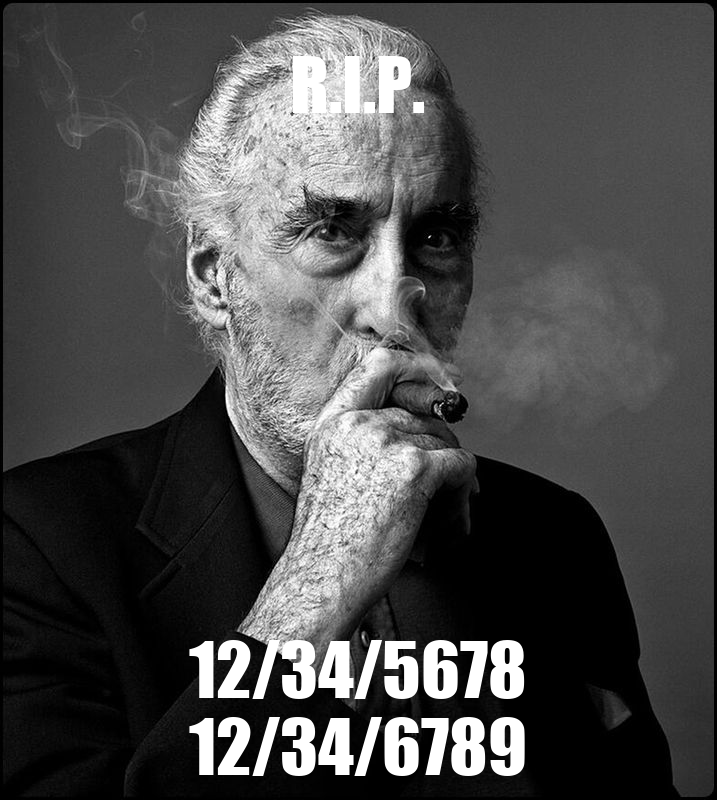
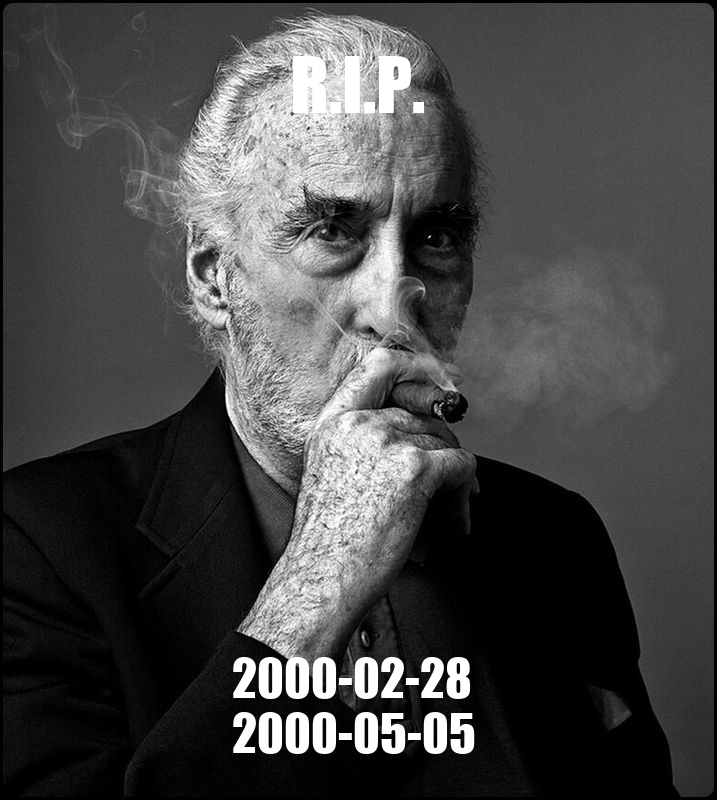
make_meme is now a function

Changed region(s): [[0.2455, 0.7812, 0.7364, 0.9688]]

diff --git a/meme_maker/make_meme.py b/meme_maker/make_meme.py
@@ -1,50 +1,48 @@
 import MemePy as mp
 from PIL import Image
 
-dob = '12/34/5678'
-dod = '12/34/6789'
+TOP_BOX_SIZE = 200
+BOTTOM_BOX_SIZE = 1000
+TEXT_COLOR = [255, 255, 255]
 
-im = Image.open('./resources/ImageLibrary/dead_person.jpg')
-width, height = im.size
-#print(width, height)
+def make_meme(birth_date, death_date, image_path):
+    im = Image.open(image_path)
+    width, height = im.size
+    #print(width, height)
 
-with open('./resources/meme-def-template.json', 'r') as f:
-    lines_with_placeholders = f.readlines()
+    with open('./resources/meme-def-template.json', 'r') as f:
+        lines_with_placeholders = f.readlines()
 
-nb_pos_encounters = 0
-nb_dim_encounters = 0
-top_box_size = 200
-bottom_box_size = 900
-text_color = [255, 255, 255]
+    nb_pos_encounters = 0
+    nb_dim_encounters = 0
 
-lines_to_export = []
-for line in lines_with_placeholders:
-    if "\"pos\"" in line:
-        if nb_pos_encounters < 1:
-            line = line.replace("TOP_X", str((width - top_box_size) // 2), 1)
-            line = line.replace("TOP_Y", str(height // 20), 1)
-        else:
-            line = line.replace("BOTTOM_X", str((width - bottom_box_size) // 2), 1)
-            line = line.replace("BOTTOM_Y", str(7.5 * height // 10), 1)
-        nb_pos_encounters += 1
-    elif "\"dimensions\"" in line:
-        if nb_dim_encounters < 1:
-            line = line.replace("TOP_BOX_SIZE", str(top_box_size))
-        else:
-            line = line.replace("BOTTOM_BOX_SIZE", str(bottom_box_size))
-        nb_dim_encounters += 1
-    elif "\"text_color\"" in line:
-        line = line.replace("TEXT_COLOR", str(text_color))
-    lines_to_export.append(line)
+    lines_to_export = []
+    for line in lines_with_placeholders:
+        if "\"pos\"" in line:
+            if nb_pos_encounters < 1:
+                line = line.replace("TOP_X", str((width - TOP_BOX_SIZE) // 2), 1)
+                line = line.replace("TOP_Y", str(height // 20), 1)
+            else:
+                line = line.replace("BOTTOM_X", str((width - BOTTOM_BOX_SIZE) // 2), 1)
+                line = line.replace("BOTTOM_Y", str(7.5 * height // 10), 1)
+            nb_pos_encounters += 1
+        elif "\"dimensions\"" in line:
+            if nb_dim_encounters < 1:
+                line = line.replace("TOP_BOX_SIZE", str(TOP_BOX_SIZE))
+            else:
+                line = line.replace("BOTTOM_BOX_SIZE", str(BOTTOM_BOX_SIZE))
+            nb_dim_encounters += 1
+        elif "\"text_color\"" in line:
+            line = line.replace("TEXT_COLOR", str(TEXT_COLOR))
+        lines_to_export.append(line)
 
-#print(lines_to_export)
+    # print(lines_to_export)
 
-with open('./resources/MemeLibrary/meme-def.json', 'w') as f:
-    f.writelines(lines_to_export)
+    with open('./resources/MemeLibrary/meme-def.json', 'w') as f:
+        f.writelines(lines_to_export)
 
+    mp.add_external_resource_dir('./resources')
+    mp.save_meme_to_disk('DeadPerson', '.', ['R.I.P.', birth_date + '\n' + death_date + ' '])
 
-mp.add_external_resource_dir('./resources')
-mp.save_meme_to_disk('DeadPerson', '.', ['R.I.P.', dob+'\n'+dod])
-
-
-
+if __name__ == '__main__':
+    make_meme('2000-02-28', '2000-05-05', './resources/ImageLibrary/dead_person.jpg')
